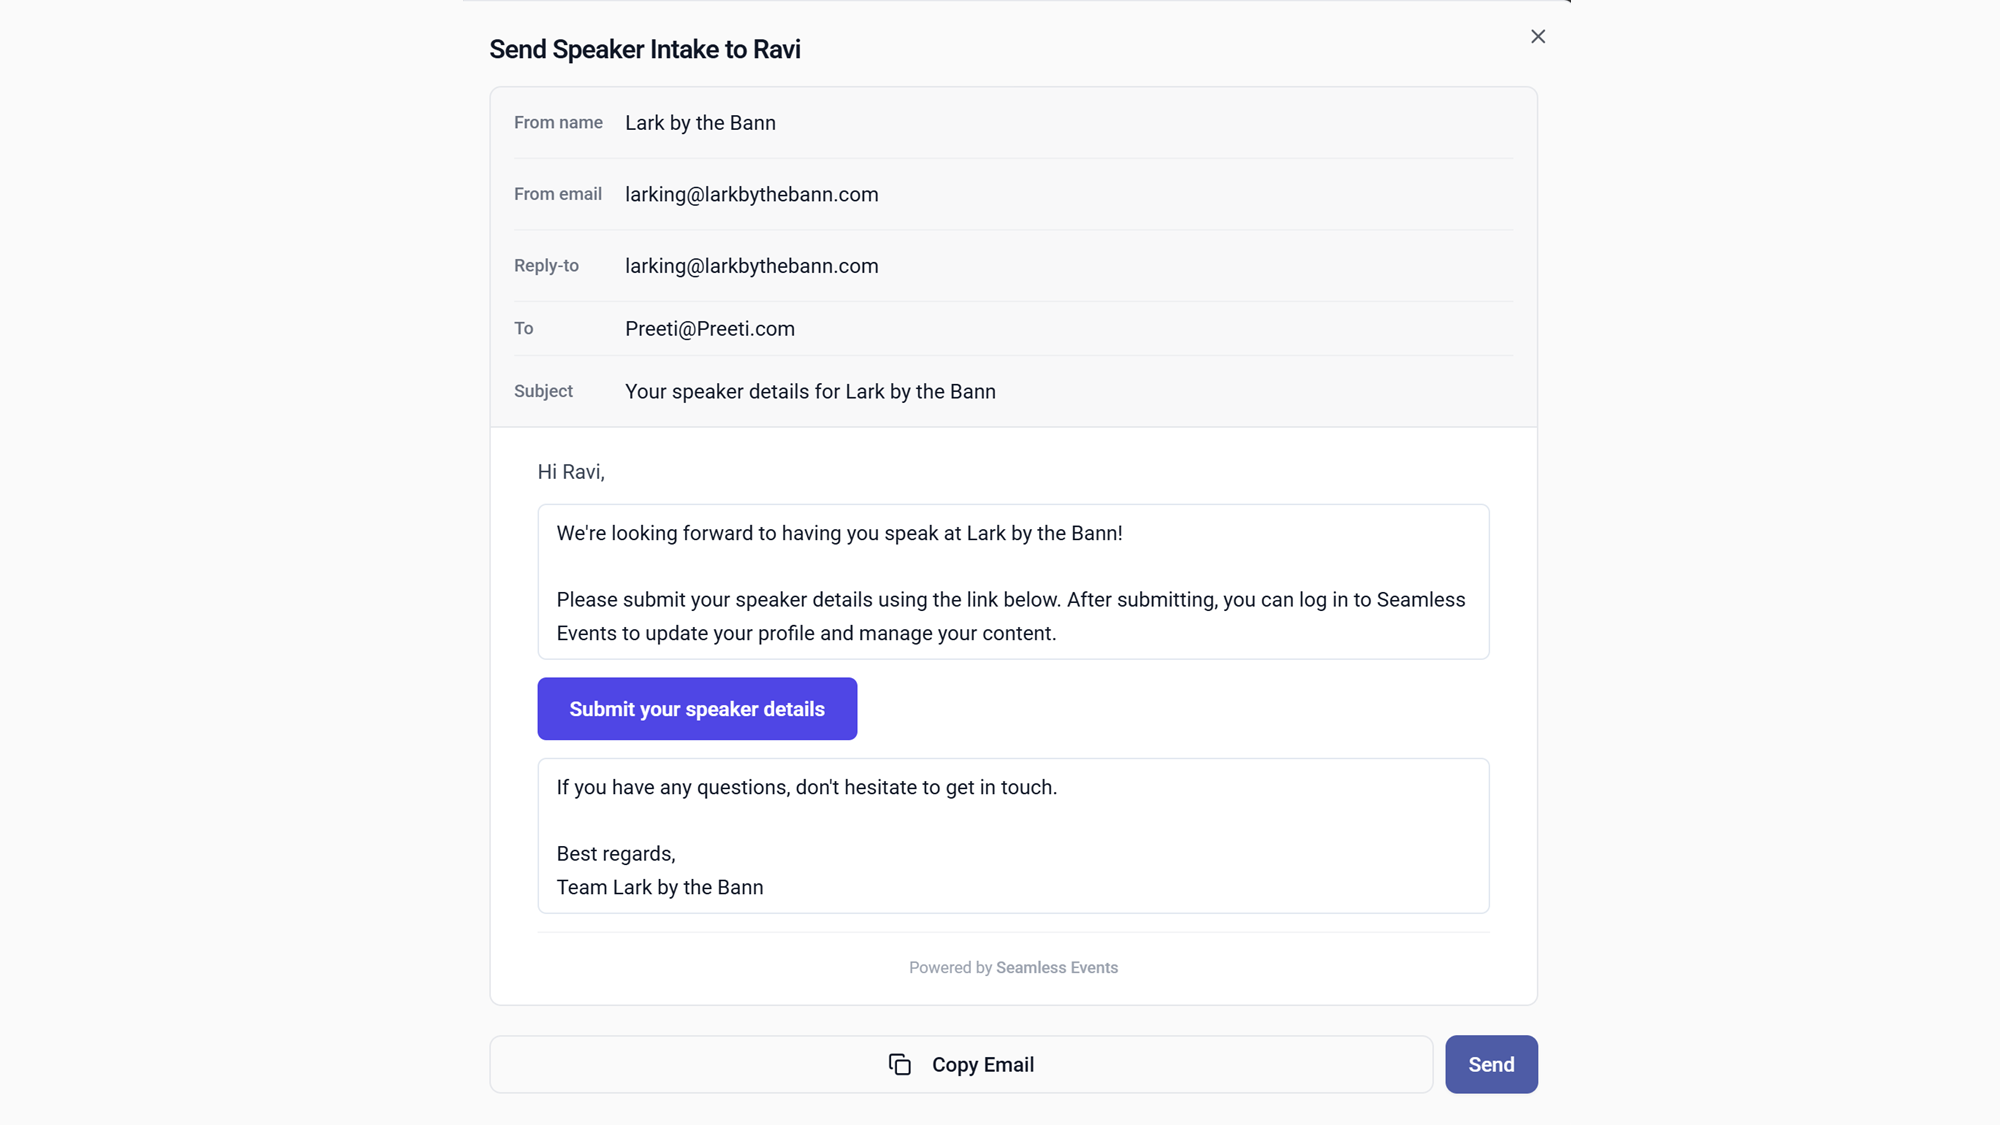
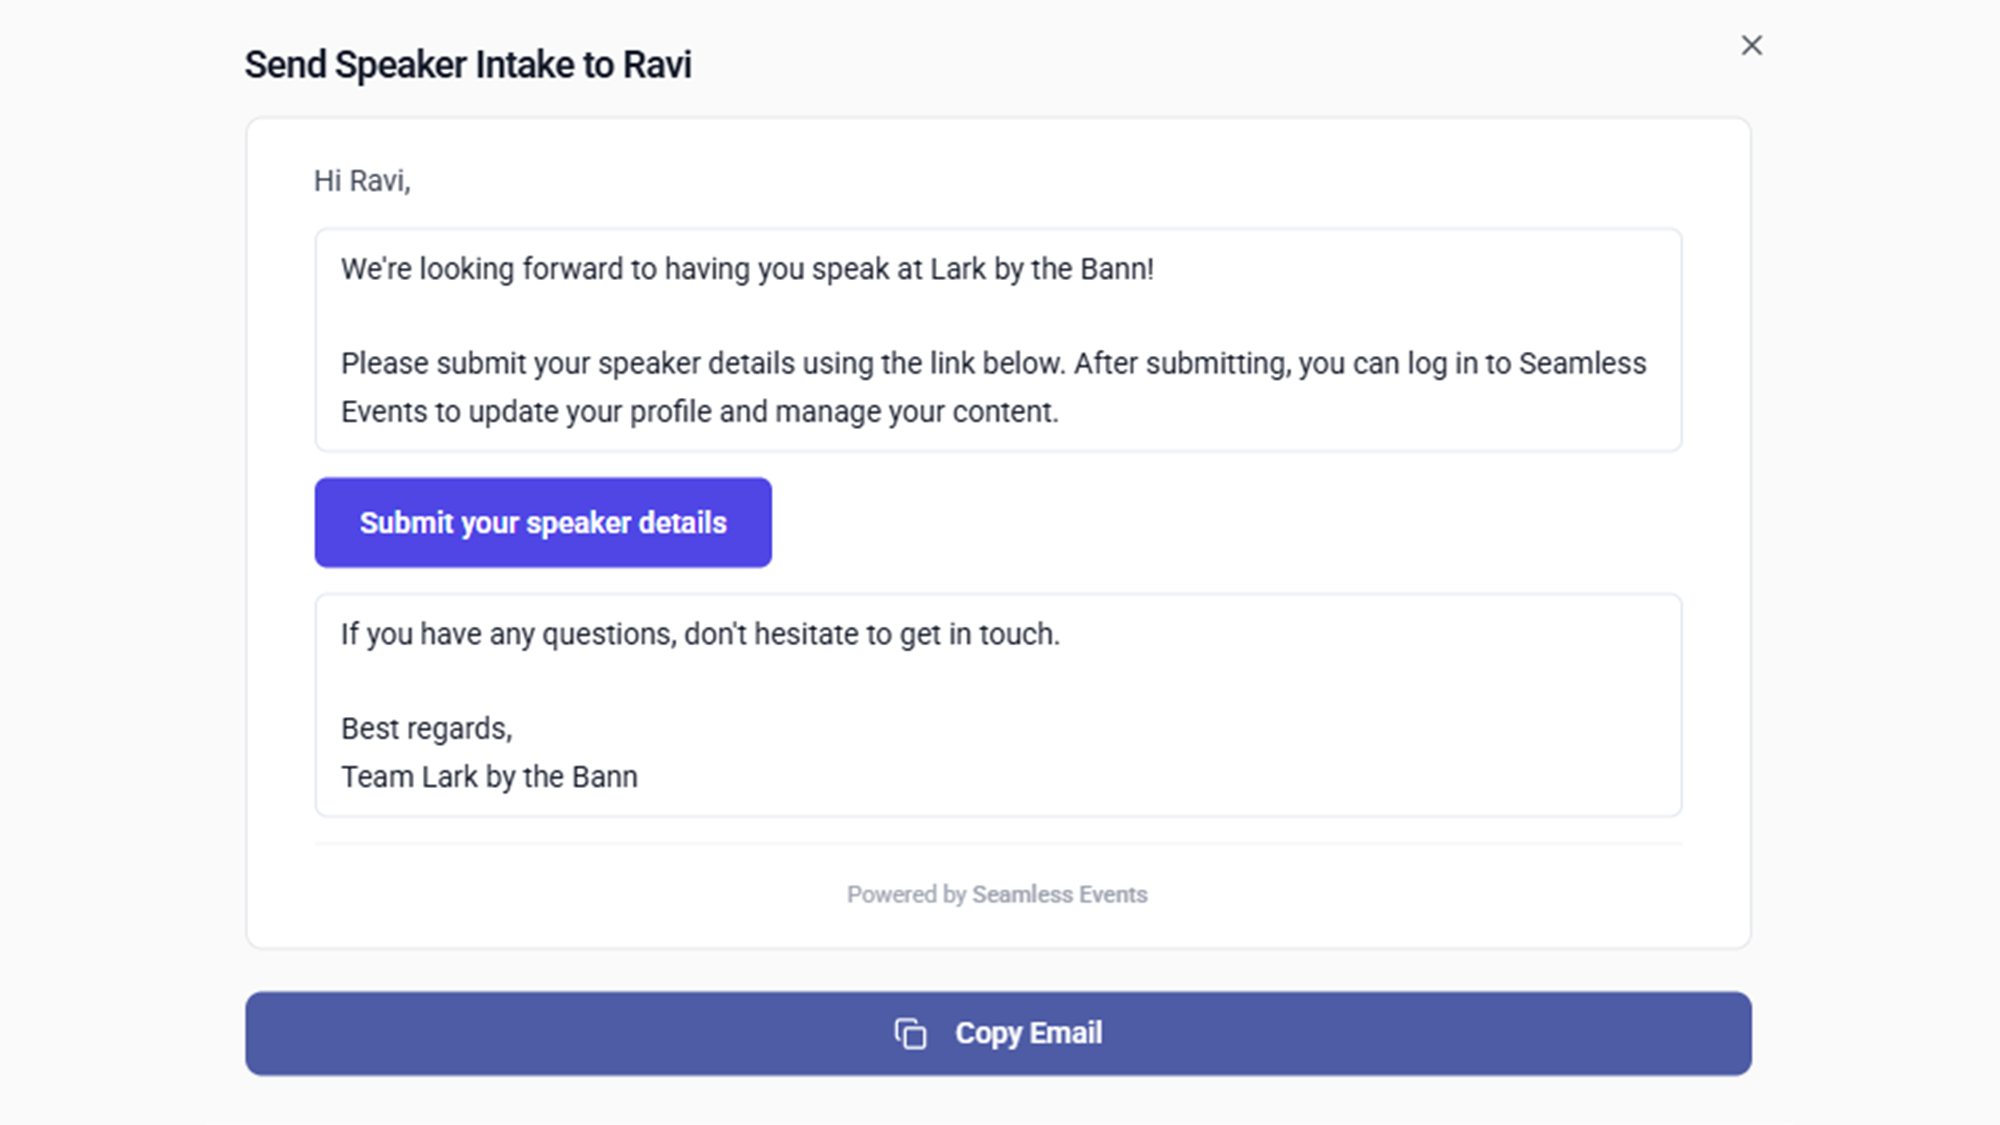
homepage update & new SEnd Inteake Form front end

diff --git a/website/homepage.html b/website/homepage.html
@@ -203,13 +203,17 @@
     }
 
     /* ─── Slideshow ────────────────────────────────────── */
-    .video-wrap {
+    .video-outer {
       position: relative;
       margin-right: 40px;
+      align-self: center;
+      padding-bottom: 22px;
+    }
+    .video-wrap {
+      position: relative;
       border-radius: 20px;
       overflow: hidden;
       background: #e8eaf2;
-      align-self: center;
       box-shadow:
         0 30px 70px -10px rgba(78, 92, 166, 0.28),
         0 10px 24px -6px rgba(78, 92, 166, 0.16);
@@ -283,9 +287,10 @@
       object-fit: cover;
       object-position: top left;
       opacity: 0;
-      transition: opacity 0.45s ease;
+      transform: scale(1.03);
+      transition: opacity 0.5s ease, transform 0.5s ease;
     }
-    .slide-img.active { opacity: 1; }
+    .slide-img.active { opacity: 1; transform: scale(1); }
 
     /* Dot indicators */
     .slide-dots {
@@ -310,6 +315,24 @@
     .slide-dot.active {
       background: #fff;
       transform: scale(1.3);
+    }
+
+    .slide-badge {
+      position: absolute;
+      bottom: 0;
+      right: 28px;
+      z-index: 10;
+      font-size: 13px;
+      font-weight: 700;
+      letter-spacing: 0.08em;
+      text-transform: uppercase;
+      color: var(--accent);
+      background: var(--accent-light);
+      border: 1.5px solid var(--accent-border);
+      padding: 7px 16px;
+      border-radius: 6px;
+      box-shadow: 0 2px 10px rgba(78, 92, 166, 0.15);
+      pointer-events: none;
     }
 
     /* ─── Pricing modal ────────────────────────────────── */
@@ -459,9 +482,11 @@
         gap: 40px;
         align-items: start;
       }
+      .video-outer {
+        margin-right: 0;
+      }
       .video-wrap {
         border-radius: 14px;
-        margin-right: 0;
       }
     }
 
@@ -521,23 +546,26 @@
         </div>
 
         <!-- Slideshow -->
-        <div class="video-wrap" aria-label="Product screenshots slideshow">
-          <div class="browser-chrome">
-            <div class="browser-dots">
-              <span></span><span></span><span></span>
+        <div class="video-outer" aria-label="Product screenshots slideshow">
+          <div class="video-wrap">
+            <div class="browser-chrome">
+              <div class="browser-dots">
+                <span></span><span></span><span></span>
+              </div>
+              <div class="browser-url" id="slideUrl">app.seamlessevents.io</div>
             </div>
-            <div class="browser-url" id="slideUrl">app.seamlessevents.io</div>
+            <div class="slides-container">
+              <img class="slide-img active" src="images/08-welcome-page.png" alt="Events dashboard"            data-url="app.seamlessevents.io/organizer"                                 data-badge="Multi-Event Dashboard">
+              <img class="slide-img"        src="images/06-applications.png" alt="Speaker applications"        data-url="app.seamlessevents.io/organizer/event/…/speakers/applications"  data-badge="Call for Speakers">
+              <img class="slide-img"        src="images/07-intake-form.png"  alt="Sending speaker intake form" data-url="app.seamlessevents.io/organizer/event/…/speakers"               data-badge="Speaker Intake">
+              <img class="slide-img"        src="images/01-speaker-list.png" alt="Speaker list"                data-url="app.seamlessevents.io/organizer/event/…/speakers"               data-badge="Speaker Management">
+              <img class="slide-img"        src="images/03-card-builder.png" alt="Card builder"                data-url="app.seamlessevents.io/organizer/event/…/website-card-builder"   data-badge="Card Builder">
+              <img class="slide-img"        src="images/04-speaker-wall.png" alt="Speaker wall"                data-url="app.seamlessevents.io/organizer/event/…/speakers/embed"          data-badge="Speaker Wall">
+              <img class="slide-img"        src="images/05-content.png"      alt="Content management"          data-url="app.seamlessevents.io/organizer/event/…/speakers"               data-badge="Content Management">
+              <div class="slide-dots" id="slideDots"></div>
+            </div>
           </div>
-          <div class="slides-container">
-            <img class="slide-img active" src="images/08-welcome-page.png" alt="Events dashboard" data-url="app.seamlessevents.io/organizer">
-            <img class="slide-img"        src="images/06-applications.png" alt="Speaker applications" data-url="app.seamlessevents.io/organizer/event/…/speakers/applications">
-            <img class="slide-img"        src="images/07-intake-form.png"  alt="Sending speaker intake form" data-url="app.seamlessevents.io/organizer/event/…/speakers">
-            <img class="slide-img"        src="images/01-speaker-list.png" alt="Speaker list" data-url="app.seamlessevents.io/organizer/event/…/speakers">
-            <img class="slide-img"        src="images/03-card-builder.png" alt="Card builder" data-url="app.seamlessevents.io/organizer/event/…/website-card-builder">
-            <img class="slide-img"        src="images/04-speaker-wall.png" alt="Speaker wall" data-url="app.seamlessevents.io/organizer/event/…/speakers/embed">
-            <img class="slide-img"        src="images/05-content.png"      alt="Content management" data-url="app.seamlessevents.io/organizer/event/…/speakers">
-            <div class="slide-dots" id="slideDots"></div>
-          </div>
+          <div class="slide-badge" id="slideBadge">Multi-Event Dashboard</div>
         </div>
 
       </div>
@@ -632,6 +660,7 @@
       const slides  = Array.from(document.querySelectorAll('.slide-img'));
       const dotsEl  = document.getElementById('slideDots');
       const urlEl   = document.getElementById('slideUrl');
+      const badgeEl = document.getElementById('slideBadge');
       let current   = 0;
       let timer;
 
@@ -653,6 +682,7 @@
         slides[current].classList.add('active');
         dots[current].classList.add('active');
         urlEl.textContent = slides[current].dataset.url || 'app.seamlessevents.io';
+        badgeEl.textContent = slides[current].dataset.badge || '';
         resetTimer();
       }
 
@@ -660,7 +690,7 @@
 
       function resetTimer() {
         clearInterval(timer);
-        timer = setInterval(advance, 2600);
+        timer = setInterval(advance, 3200);
       }
 
       // Advance quickly on first slide so motion is caught immediately

diff --git a/src/components/organizer/AddSpeakerDialog.tsx b/src/components/organizer/AddSpeakerDialog.tsx
@@ -444,15 +444,15 @@ export default function AddSpeakerDialog({ eventId, eventName = "the event", ema
               </div>
 
               <div className="flex gap-2 pt-1">
-                <Button variant="outline" onClick={() => setStep("choose")}>
+                <Button variant="outline" className="flex-1" onClick={() => setStep("choose")}>
                   Back
                 </Button>
                 <Button
-                  className="flex-1"
+                  className="flex-[2]"
                   disabled={!isStep1Valid || creating || isCheckingExistingEmail || emailExistsForEvent}
                   onClick={handleSendForm}
                 >
-                  {creating ? "Adding…" : "Next — Compose Email"}
+                  {creating ? "Adding…" : "Add Speaker & Send Intake Form"}
                 </Button>
               </div>
             </div>
@@ -467,35 +467,19 @@ export default function AddSpeakerDialog({ eventId, eventName = "the event", ema
             </DialogHeader>
 
             <div className="space-y-0">
+              {/* MVP: header fields hidden — organiser copies and sends via their own email client
               <div className="rounded-t-lg border border-border bg-muted/20 px-4">
                 <div className={headerRowCls}>
                   <span className={headerLabelCls}>From name</span>
-                  <Input
-                    value={fromName}
-                    onChange={(e) => setFromName(e.target.value)}
-                    placeholder={`${eventName} Speaker Team`}
-                    className="h-8 text-sm border-0 shadow-none p-0 focus-visible:ring-0 bg-transparent flex-1"
-                  />
+                  <Input value={fromName} onChange={(e) => setFromName(e.target.value)} placeholder={`${eventName} Speaker Team`} className="h-8 text-sm border-0 shadow-none p-0 focus-visible:ring-0 bg-transparent flex-1" />
                 </div>
                 <div className={headerRowCls}>
                   <span className={headerLabelCls}>From email</span>
-                  <Input
-                    type="email"
-                    value={fromEmail}
-                    onChange={(e) => setFromEmail(e.target.value)}
-                    placeholder="you@yourorg.com"
-                    className="h-8 text-sm border-0 shadow-none p-0 focus-visible:ring-0 bg-transparent flex-1"
-                  />
+                  <Input type="email" value={fromEmail} onChange={(e) => setFromEmail(e.target.value)} placeholder="you@yourorg.com" className="h-8 text-sm border-0 shadow-none p-0 focus-visible:ring-0 bg-transparent flex-1" />
                 </div>
                 <div className={headerRowCls}>
                   <span className={headerLabelCls}>Reply-to</span>
-                  <Input
-                    type="email"
-                    value={replyTo}
-                    onChange={(e) => setReplyTo(e.target.value)}
-                    placeholder={fromEmail || "defaults to From email"}
-                    className="h-8 text-sm border-0 shadow-none p-0 focus-visible:ring-0 bg-transparent flex-1"
-                  />
+                  <Input type="email" value={replyTo} onChange={(e) => setReplyTo(e.target.value)} placeholder={fromEmail || "defaults to From email"} className="h-8 text-sm border-0 shadow-none p-0 focus-visible:ring-0 bg-transparent flex-1" />
                 </div>
                 <div className={headerRowCls}>
                   <span className={headerLabelCls}>To</span>
@@ -503,15 +487,12 @@ export default function AddSpeakerDialog({ eventId, eventName = "the event", ema
                 </div>
                 <div className={`${headerRowCls} border-b-0`}>
                   <span className={headerLabelCls}>Subject</span>
-                  <Input
-                    value={emailSubject}
-                    onChange={(e) => setEmailSubject(e.target.value)}
-                    className="h-8 text-sm border-0 shadow-none p-0 focus-visible:ring-0 bg-transparent flex-1"
-                  />
+                  <Input value={emailSubject} onChange={(e) => setEmailSubject(e.target.value)} className="h-8 text-sm border-0 shadow-none p-0 focus-visible:ring-0 bg-transparent flex-1" />
                 </div>
               </div>
+              */}
 
-              <div className="rounded-b-lg border border-t-0 border-border bg-white px-8 pt-5 pb-4 space-y-3">
+              <div className="rounded-lg border border-border bg-white px-8 pt-5 pb-4 space-y-3">
                 <p className="text-sm text-gray-700">Hi {fields.firstName || "…"},</p>
 
                 <Textarea
@@ -563,15 +544,12 @@ export default function AddSpeakerDialog({ eventId, eventName = "the event", ema
             </div>
 
             <div className="flex gap-2 pt-1">
-              <Button variant="outline" className="flex-1" onClick={handleCopyEmail}>
+              <Button className="flex-1" onClick={handleCopyEmail}>
                 {copied ? (
                   <><Check className="h-3.5 w-3.5 mr-1.5" />Copied</>
                 ) : (
                   <><Copy className="h-3.5 w-3.5 mr-1.5" />Copy Email</>
                 )}
-              </Button>
-              <Button onClick={handleSendClick}>
-                Send
               </Button>
             </div>
           </>
